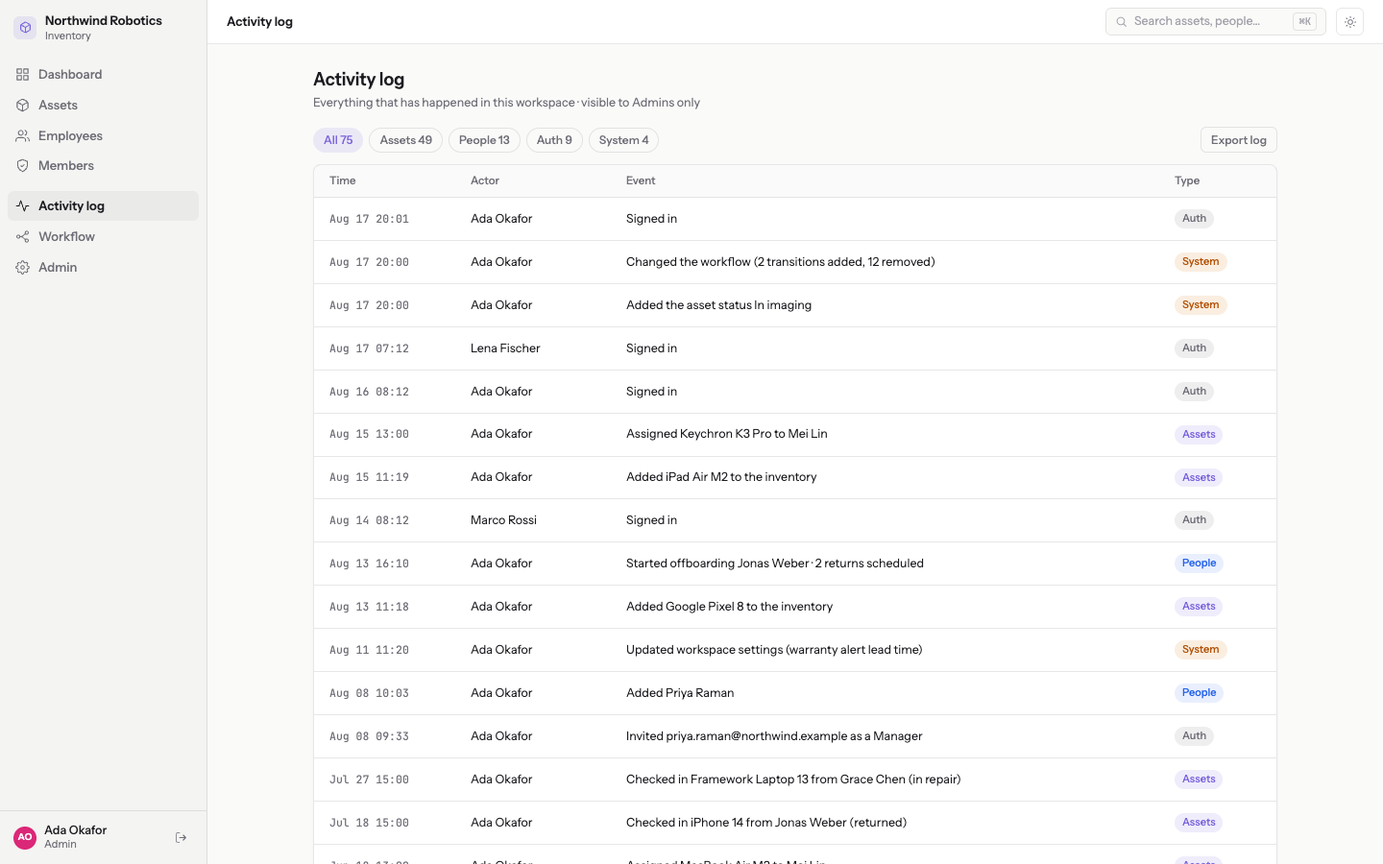
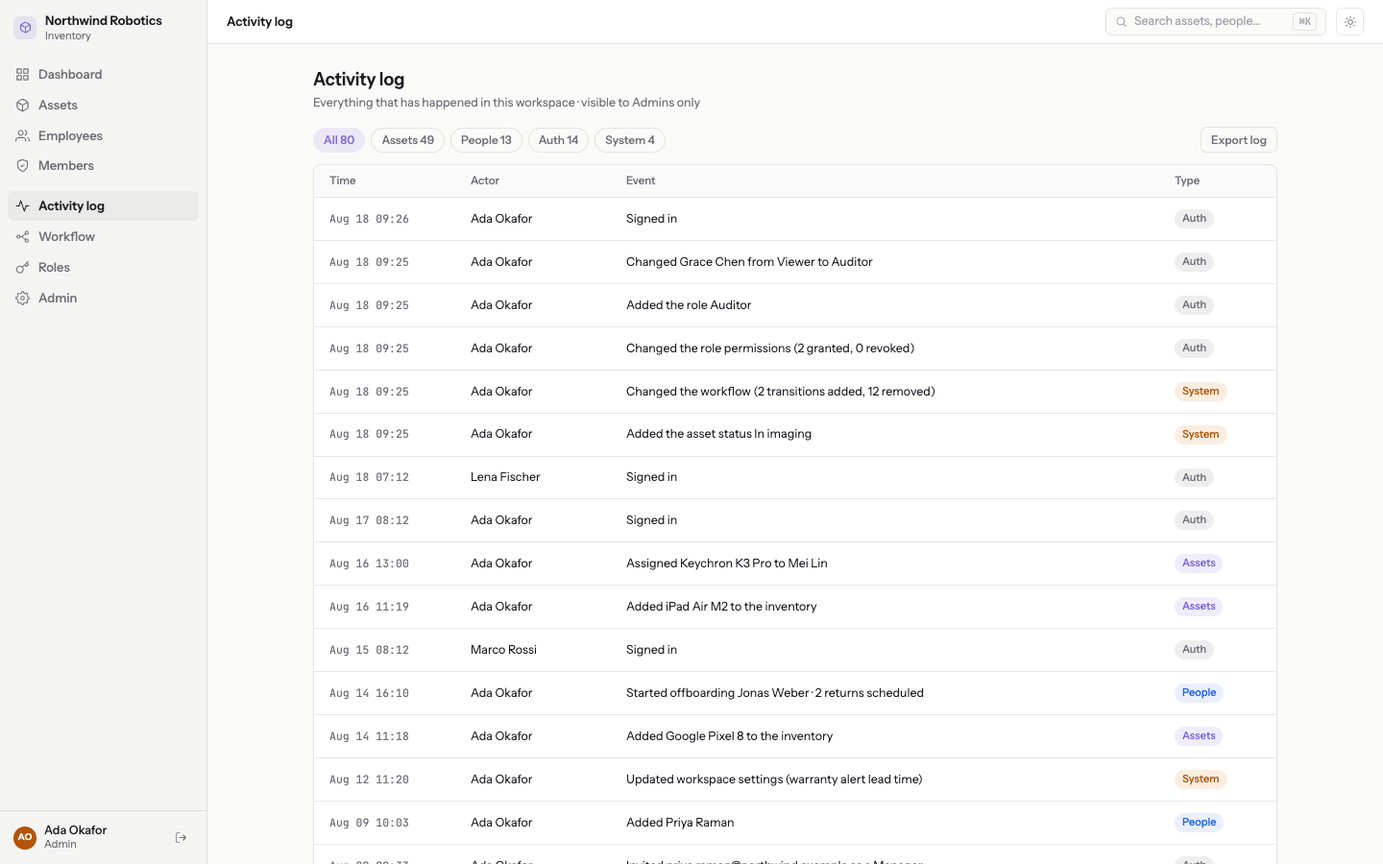
docs: show the roles page, and how to add an action to it
Two new frames from the freshly seeded demo, both 1440×900 in the light
theme like the rest of the set: the Roles page — Northwind's four roles,
their descriptions and member counts, above the permissions matrix — and
the invite modal, which draws a card per row so the role somebody
invented is on the form with the words they wrote.

The other eight are re-shot from the same session, because this branch
changed what they show: the sidebar has a Roles item now, and the
dashboard's activity widget and the log both open on the promotion the
demo seed ends with.

`add-permission-action.md` is the code-side change adopters make — an
action slug through ACTIONS, its label, its group, the seed, the route
guard, the affordance and the renderer, with the reminder that nobody
holds the new permission until an admin ticks it. The recipes that still
narrated the role enum say `can(permissions, …)` now, and the ones that
sent people to `enums.ts` for a role send them to the Roles page.

diff --git a/docs/recipes/add-permission-action.md b/docs/recipes/add-permission-action.md
@@ -1,0 +1,93 @@
+# Add a permission action
+
+Worked example: `locations.create`, the permission a new Locations section would need.
+
+> **Roles moved to the Roles page.** Which _roles_ a workspace has, and which actions each one is granted, is data — rows in `roles` and `role_permissions`, edited by an admin in the running app. This recipe is the other half: which _actions exist_ is a product decision, compiled in, and that is what you are adding.
+
+**There is no migration**, and there is nothing to grant. An action is a string in an array with three maps around it; a workspace decides who holds it by ticking a box on **Roles**. The one role that needs no ticking is Admin: it is the system role and its permission set is `ACTIONS` by definition, so an action added today is already its own — that is `resolvePermissions` in `apps/api/src/services/roles.ts`, one line, and the reason this recipe has no reconciliation step.
+
+---
+
+## 1. The action — `packages/shared/src/rbac.ts`
+
+Four edits in one file, and TypeScript will not let you stop after the first.
+
+```ts
+export const ACTIONS = [
+  // …
+  'locations.create',
+] as const;
+
+export const ACTION_LABELS: Record<Action, string> = {
+  // …
+  'locations.create': 'Create locations',
+};
+
+export const ACTION_GROUPS = [
+  // …
+  { label: 'Assets', actions: ['assets.create', …, 'locations.create'] },
+] as const satisfies readonly ActionGroup[];
+```
+
+`Action` is `(typeof ACTIONS)[number]`, so the `Record` types fail to compile until the label is there. `ACTION_GROUPS` is what the permissions matrix draws its bands from — a checkbox in no group is a permission nobody can grant. Put the action under one of the five bands the matrix already draws (Assets, Employees, People, Data, Administration); a sixth is allowed, but the test in the next step names them and their order, so add it there in the same breath. **The label is the row's whole copy**: write what a person does, not what the endpoint is called.
+
+Then the seed, if the roles a _fresh_ instance starts with should have it:
+
+```ts
+export const DEFAULT_ROLES = [
+  // …
+  { id: 'manager', /* … */ grants: ['assets.create', …, 'locations.create'] },
+];
+```
+
+Admin's `grants` array stays empty on purpose — see above. And editing `DEFAULT_ROLES` changes nothing on a workspace that already exists: `apps/api/src/db/seed.ts` only seeds the roles table when it is empty, because a workspace that has edited its roles deleted rows on purpose.
+
+## 2. The test that pins the partition — `packages/shared/src/rbac.test.ts`
+
+It asserts that `ACTION_GROUPS` partitions `ACTIONS` exactly — every action in one group, none in two — that `ACTION_LABELS` labels each one as something other than its slug, and that the bands are the five the matrix draws, in order. It will fail the moment you add the slug and pass again when the group has it; that failure _is_ the reminder, so run it before you go looking for the next file. `DEFAULT_ROLES` has its own tests there too, including one that refuses a grant this build does not declare.
+
+`packages/shared/src/audit-render.test.ts` is the other one to watch if the action writes events (step 5).
+
+## 3. The door — `apps/api/src/modules/<area>.ts`
+
+```ts
+typed.post(
+  '/api/v1/locations',
+  { schema: { body: locationCreateInput }, preHandler: requireAction('locations.create') },
+  async (request) => ({ location: createLocation(deps, request.member!, request.body) }),
+);
+```
+
+`requireAction` composes `requireAuth`, so it also carries the two-factor enrolment gate — never re-implement a guard's body, call the one below it. **A route with no action named on it is a route nothing guards**: reads are deliberately open to every authenticated member, so anything that mutates or is admin-only must name one.
+
+The permission set is resolved per request in `apps/api/src/plugins/session.ts`, which is why a grant an admin made a second ago lands on the member's very next request with no session machinery involved.
+
+## 4. The affordance — `apps/web`
+
+```tsx
+{can(permissions, 'locations.create') && <Button icon="plus" …>Add location</Button>}
+```
+
+Every gated page takes a `permissions: Action[]` prop threaded from the session in `routes.tsx`; `/auth/me` carries the set the API resolved, and `requireAction` reads that same set on the server — which is what keeps a button and the door behind it from disagreeing. Nothing in the web may name a role but `admin`.
+
+If the action gates a whole page, guard the **route** in `apps/web/src/routes.tsx` (`can(permissions, 'locations.manage') ? <LocationsPage …/> : <Navigate to="/dashboard" replace />`) and add `requires: 'locations.manage'` to the entry in `apps/web/src/components/app/nav.ts`. A hidden nav item hides the door without locking it.
+
+The command palette filters its entries by permission too — `apps/web/src/components/app/palette.ts`.
+
+## 5. The sentence, if it writes events — `packages/shared/src/audit-render.ts`
+
+Every mutation writes its audit event in the same transaction, and every audited action needs a renderer here. Look at what the sentence needs and audit _that_: a renderer can only say what its `params` carry.
+
+## What updates itself
+
+- **The permissions matrix on `/roles`** draws one row per action, from `ACTION_GROUPS` and `ACTION_LABELS`. No component change, no column, no migration.
+- **The Admin column** is ticked and disabled for the new row the moment it exists.
+- **Every existing role** starts without it, which is the safe direction. An admin ticks the boxes they mean and presses Save.
+
+## The step people forget
+
+**Nobody has the new permission except Admin.** Adding an action to `ACTIONS` widens what _can_ be granted, not what is: existing roles are rows, and rows do not grow a column. If a workspace's Managers should be able to do the new thing, an admin has to tick it on **Roles** — and if the feature ships to instances that upgrade rather than start fresh, say so in the release notes, because `DEFAULT_ROLES` will not reach them.
+
+## What this recipe is not for
+
+**A new role.** Sign in as an admin, open **Roles**, and add it there: name, colour, description, then the boxes it may tick. `packages/shared/src/rbac.ts` still holds `DEFAULT_ROLES`, but that is only the roles a **fresh** instance is seeded with plus the label fallback for audit events written before any of this existed.

diff --git a/README.md b/README.md
@@ -2,7 +2,7 @@
 
 Self-hosted, single container, SQLite. Track devices, who holds them, and the full ownership history of every one.
 
-Built to be **customized by asking Claude Code**: every area of the repo carries a `CLAUDE.md` explaining its patterns, and [`docs/recipes/`](docs/recipes/) has step-by-step checklists for the changes teams actually make — a new field, a new page, a new widget, a new email.
+Built to be **customized by asking Claude Code**: every area of the repo carries a `CLAUDE.md` explaining its patterns, and [`docs/recipes/`](docs/recipes/) has step-by-step checklists for the changes teams actually make — a new field, a new page, a new permission, a new email.
 
 MIT licensed.
 
@@ -39,7 +39,8 @@ docker compose up -d
 - **Employees** — the people who hold devices. Separate from the accounts that sign in, optionally linked to them, because most staff never need a login.
 - **Ownership history** — who had what, when, and how it came back. Held in one table that is the only truth about it; an asset's status and its open ownership record cannot disagree.
 - **Custom statuses & workflow** — the statuses an asset can be in are yours, not ours: an admin adds, renames, recolours and reorders them, and draws the moves between them as a checkbox matrix with a live diagram beside it. The API enforces the graph, so taking an edge off it stops that move being offered _and_ stops it being accepted.
-- **Members and invitations** — three roles (Admin / Manager / Viewer), invite by email or by a copyable link.
+- **Custom roles & permissions** — who may do what is yours as well: an admin invents a role, colours it, writes the line that appears under its name on the invite card, and ticks what it may do in a matrix of every action the product has. Admin is the one locked row — it holds every permission including the ones a later version adds — and nobody may edit the role they hold themselves. Permissions resolve per request, so a grant lands on that member's very next click, and the set the sidebar reads is the same one the API guard checks.
+- **Members and invitations** — the accounts that sign in, each holding one of those roles, invited by email or by a copyable link.
 - **Activity log** — every mutation, rendered as a sentence, filterable and exportable as CSV.
 - **Dashboard** — status counts that click through to a filtered list, fleet composition, recent activity, warranties running out, and what is due back.
 - **⌘K** — search assets and people or run a command, entirely from the keyboard.
@@ -62,6 +63,14 @@ _The demo workspace's own workflow. Northwind added "In imaging" for machines be
 ![The Change status modal for a laptop that is in repair, its status list open and offering only Available and Retired](media/workflow-change-status.png)
 
 _The same graph, one screen later: In repair has two edges leaving it, so those are the two moves on offer — and the only two the API would accept if you asked another way._
+
+![The Roles page: four roles with their colours, descriptions and member counts, above a matrix of every action with a checkbox per role](media/roles.png)
+
+_The demo workspace's own roles. Northwind wanted somebody in finance to read the log and pull the export without being able to touch the inventory, so it added Auditor and ticked exactly two boxes — both further down the matrix, under Data and Administration. The Admin column is ticked and locked the whole way, because its set is every action there is, by definition rather than by rows._
+
+![The Invite member modal: a radio card per role, each with the description its admin wrote, above the email field](media/roles-invite.png)
+
+_Everywhere a role is named reads the same table, so a role invented at four o'clock is on the invite form at four o'clock, with the words its admin wrote. The card selected by default is the one granting the fewest actions, not a slug the code knows._
 
 ![The activity log: filter pills counting assets, people, auth and system events, above a table of events written as sentences](media/activity-log.png)
 
@@ -163,16 +172,17 @@ Either way the API runs on `:3000` and Vite on `:5173` and proxies to it — **o
 
 ### Seeing it with data in it
 
-A fresh instance is empty and lands on `/setup`, which is the real first-run experience but leaves every screen blank — and this app is largely about history. `npm run seed:demo` gives you a fictional company: twelve people, twenty-six devices, four months of assignments, returns and audit history. It prints one login per role, so you can see what an admin, a manager and a viewer each get:
+A fresh instance is empty and lands on `/setup`, which is the real first-run experience but leaves every screen blank — and this app is largely about history. `npm run seed:demo` gives you a fictional company: twelve people, twenty-six devices, four months of assignments, returns and audit history. It prints one login per role — including the fourth one the workspace invented for itself — so you can see what each of them gets:
 
 ```
   Northwind Robotics is ready in /path/to/repo/data
 
-  26 assets · 12 employees · 19 ownership records · 74 logged events
+  26 assets · 12 employees · 19 ownership records · 79 logged events
 
   ada.okafor@northwind.example    demo-password  (admin)
   marco.rossi@northwind.example   demo-password  (manager)
   lena.fischer@northwind.example  demo-password  (viewer)
+  grace.chen@northwind.example    demo-password  (auditor)
 ```
 
 Every date is relative to the moment you run it, so warranties are always about to lapse and returns are always about to fall due — the dashboard is never a museum. It refuses to touch a workspace that already has data; add `--reset` to replace one.

diff --git a/docs/recipes/add-page.md b/docs/recipes/add-page.md
@@ -9,11 +9,11 @@ Worked example: a **Locations** section with its own nav entry, list page and de
 Inside the signed-in `<Route element={<AppShell …>}>` block:
 
 ```tsx
-<Route path="/locations" element={<LocationsPage role={member.role} />} />
-<Route path="/locations/:id" element={<LocationDetailPage role={member.role} />} />
+<Route path="/locations" element={<LocationsPage permissions={permissions} />} />
+<Route path="/locations/:id" element={<LocationDetailPage permissions={permissions} />} />
 ```
 
-`routes.tsx` holds the whole map and its guards, and picks one of three route sets from instance and session state. A page that only some roles may open goes behind `can(member.role, '…')` the way `/admin/*` does — never behind a hidden nav item alone, which hides the door without locking it.
+`routes.tsx` holds the whole map and its guards, and picks one of three route sets from instance and session state. A page not everybody may open goes behind `can(permissions, '…')` the way `/activity`, `/workflow`, `/roles` and `/admin` do — never behind a hidden nav item alone, which hides the door without locking it. `permissions` is the set `/auth/me` resolved for this request; nothing downstream knows what a role is called.
 
 ## 2. The nav entry — `apps/web/src/components/app/nav.ts`
 
@@ -21,19 +21,19 @@ Inside the signed-in `<Route element={<AppShell …>}>` block:
 { label: 'Locations', to: '/locations', icon: 'mapPin' },
 ```
 
-and add `locations: 'Locations'` to the breadcrumb map below it. `requires: '<action>'` on the entry hides it from roles that may not use it; `gapBefore: true` is the design's 10px separation, which only Admin has.
+and add `locations: 'Locations'` to the breadcrumb map below it. `requires: '<action>'` on the entry hides it from anybody whose role does not grant that action; `gapBefore: true` is the design's 10px separation, which only Admin has.
 
 If the icon does not exist yet, add its path to `components/ui/Icon.tsx` in the same Feather style at stroke 1.7. Do not add an icon library.
 
 ## 3. The page — `apps/web/src/features/locations/LocationsPage.tsx`
 
 ```tsx
-export function LocationsPage({ role }: { role: Role }) {
+export function LocationsPage({ permissions }: LocationsPageProps) {
   const locations = useLocations();
   return (
     <PageContainer maxWidth={1160}>
-      <ListToolbar title="Locations" role={role}>
-        {can(role, 'locations.create') && <Button icon="plus" …>Add location</Button>}
+      <ListToolbar title="Locations" permissions={permissions}>
+        {can(permissions, 'locations.create') && <Button icon="plus" …>Add location</Button>}
       </ListToolbar>
       {/* SearchInput, DataTable, EmptyState — see AssetsPage */}
     </PageContainer>
@@ -66,13 +66,13 @@ Writes go in `api/mutations.ts` and invalidate through `invalidateInventory` (or
 
 A module in `apps/api/src/modules/locations.ts` with thin routes, a service in `apps/api/src/services/locations.ts` holding anything transactional, and `registerLocationRoutes(app, deps)` wired into `apps/api/src/app.ts`.
 
-Guard every mutating route with `requireAction('<action>')`, and declare that action in `packages/shared/src/rbac.ts` — the same map the UI's `can()` reads, which is what keeps the button and the endpoint from disagreeing.
+Guard every mutating route with `requireAction('<action>')`, and declare that action in `packages/shared/src/rbac.ts` — the same list the UI's `can()` reads, which is what keeps the button and the endpoint from disagreeing. [`add-permission-action.md`](add-permission-action.md) is that change end to end; which _roles_ hold the action is workspace data, edited on **Roles**, so there is nothing to migrate.
 
 **Every mutation writes its audit event in the same transaction** (`writeAudit`), and every audited action needs a renderer in `packages/shared/src/audit-render.ts`. The test there asserts each one renders something other than its own slug.
 
 ## 6. Tests
 
-- `apps/api/test/locations.test.ts` — `buildTestApp()` and `app.inject`, covering the happy path, the role guard and the delete guard.
+- `apps/api/test/locations.test.ts` — `buildTestApp()` and `app.inject`, covering the happy path, the permission guard and the delete guard.
 - `apps/web/src/features/locations/locations.test.tsx` — drive the real client through `src/test/api-stub.ts`, as the other features do.
 - `apps/web/src/components/app/nav.test.ts` — the section is active on its detail page too.
 

diff --git a/docs/recipes/add-enum-value.md b/docs/recipes/add-enum-value.md
@@ -1,8 +1,8 @@
 # Add an enum value
 
-> **Asset statuses moved to Admin → Workflow.** They are rows in `asset_statuses` now, added and renamed by an admin in the running app — no code, no deploy. This recipe is for the enums that stayed in code.
+> **Asset statuses and roles moved into the app.** Statuses are rows in `asset_statuses`, edited on **Workflow**; roles are rows in `roles`, edited on **Roles** — both added and renamed by an admin in the running app, no code, no deploy. This recipe is for the enums that stayed in code, and [`add-permission-action.md`](add-permission-action.md) is for the one list roles are built out of.
 
-Worked example: an asset category `tablets`. The same steps add a role, a check-in condition, an audit type or an assignment outcome — every enum left in this app is built the same way.
+Worked example: an asset category `tablets`. The same steps add a check-in condition, an audit type or an assignment outcome — every enum left in this app is built the same way.
 
 **There is no migration.** Enum columns are `TEXT` with no `CHECK` constraint, deliberately, so adding a value is a code-only change. That decision is what makes this recipe five minutes long.
 
@@ -28,7 +28,7 @@ export const ASSET_CATEGORY_LABELS: Record<AssetCategory, string> = {
 
 Add the slug to the array and TypeScript's `Record` types make every map fail to compile until it is complete. That is the guard rail — you cannot add a value that has no label.
 
-Some enums carry a **semantic colour** map as well (roles, employee statuses, audit types). The colour must be one of `ok | acc | warn | err | info | neut`. Never a hex value: those resolve to `--{sv}` and `--{sv}-bg`, which is what makes it work in both themes.
+Some enums carry a **semantic colour** map as well (employee statuses, audit types). The colour must be one of `ok | acc | warn | err | info | neut`. Never a hex value: those resolve to `--{sv}` and `--{sv}-bg`, which is what makes it work in both themes.
 
 ## 2. Update the test that pins the vocabulary
 
@@ -58,5 +58,7 @@ A test or a CSS grid that spells out how many there are is the one thing that do
 **Existing rows keep their old value, and that is the point.** Removing a value from the array does not remove it from the database: assets still carry the slug, and the UI renders what it can rather than crashing. If you are _replacing_ a value rather than adding one, write a migration that updates the rows — the enum change alone leaves data nothing can label.
 
 ## What this recipe is not for
+
+**A new role.** Sign in as an admin, open **Roles**, and add it there: name, colour, description, and the boxes it may tick. `packages/shared/src/rbac.ts` still holds `DEFAULT_ROLES`, but that is only what a **fresh** instance is seeded with plus the label fallback for audit events written before roles became data. Adding a new _action_ a role can be granted is [`add-permission-action.md`](add-permission-action.md).
 
 **A new asset status.** Sign in as an admin, open **Workflow**, and add it there: label, colour, whether assets can be handed out of it, whether a check-in may land in it, and which moves the transition matrix allows. `packages/shared/src/enums.ts` still holds `DEFAULT_ASSET_STATUSES`, but that is only the workflow a **fresh** instance is seeded with plus the label fallback for audit events written before any of this existed — editing it changes nothing on a workspace that already exists.

diff --git a/docs/recipes/README.md b/docs/recipes/README.md
@@ -4,14 +4,15 @@ End-to-end checklists for the changes teams actually make to this app. Each one 
 
 They are written to be handed to Claude Code: open a session in the repo and say _"follow docs/recipes/add-asset-field.md to add a `mac_address` field"_. They read as instructions to a person too.
 
-| Recipe                                             | When                                                                              |
-| -------------------------------------------------- | --------------------------------------------------------------------------------- |
-| [add-asset-field.md](add-asset-field.md)           | A column every asset should have, on the form, the table, the CSV and the export. |
-| [add-enum-value.md](add-enum-value.md)             | A new category, role or any other enum value. (Statuses are edited in the app.)   |
-| [add-page.md](add-page.md)                         | A new section with its own nav entry and route.                                   |
-| [add-dashboard-widget.md](add-dashboard-widget.md) | Another card on the dashboard, toggleable per member.                             |
-| [add-email.md](add-email.md)                       | A new message, transactional or scheduled.                                        |
-| [rebrand.md](rebrand.md)                           | Your own name, colours and fonts.                                                 |
+| Recipe                                               | When                                                                                 |
+| ---------------------------------------------------- | ------------------------------------------------------------------------------------ |
+| [add-asset-field.md](add-asset-field.md)             | A column every asset should have, on the form, the table, the CSV and the export.    |
+| [add-enum-value.md](add-enum-value.md)               | A new category, condition or any other enum value. (Statuses are edited in the app.) |
+| [add-permission-action.md](add-permission-action.md) | A new thing a role may be granted. (Roles themselves are edited in the app.)         |
+| [add-page.md](add-page.md)                           | A new section with its own nav entry and route.                                      |
+| [add-dashboard-widget.md](add-dashboard-widget.md)   | Another card on the dashboard, toggleable per member.                                |
+| [add-email.md](add-email.md)                         | A new message, transactional or scheduled.                                           |
+| [rebrand.md](rebrand.md)                             | Your own name, colours and fonts.                                                    |
 
 ## Before any of them
 

diff --git a/e2e/CLAUDE.md b/e2e/CLAUDE.md
@@ -13,7 +13,8 @@ npm run e2e          # from the repo root
 - Later specs also inherit the _data_ earlier ones created: `inventory.spec.ts` adds an employee, then registers an asset to that person, then reads it back. Add to the end of a journey rather than assuming an empty instance.
 - **`zz-workspace-delete.spec.ts` empties the instance, so its `zz-` prefix is load-bearing.** Anything sorting after it would find a workspace waiting to be set up. Give new specs ordinary names and they stay safe.
 - Uploading a file is `setInputFiles` on the input's accessible name (`getByLabel('CSV file')`), never a click on the dropzone: the visible zone opens a native picker Playwright cannot drive.
-- A second role needs a second browser context: `members.spec.ts` invites a viewer and accepts the invitation in `browser.newContext()`, which is also the only honest way to test read-only access — the invite endpoint is the only way to create a non-admin.
+- A second role needs a second browser context: `members.spec.ts` invites a viewer and accepts the invitation in `browser.newContext()`, which is also the only honest way to test read-only access — the invite endpoint is the only way to create a non-admin. `roles.spec.ts` then promotes that same person and signs her in again, because one member carried across specs is what makes "her permissions changed" a thing the suite can observe.
+- **A permission is only proven when the API agrees.** A missing button is a hidden door; `page.request.post(…)` from the signed-in context is the lock. Playwright's request context shares the page's cookies and sends no `Origin`, which the origin guard passes deliberately — so the guard under test is the RBAC one. Send a body the schema accepts: validation runs before the route's `preHandler`, so an empty one answers 422 and proves nothing.
 - Browser contexts are per-test, so every test starts signed out even though the server state carries over.
 - `NODE_ENV=production` is set deliberately: it activates the origin guard, so the suite proves the CSRF stance works with real browser requests.
 

diff --git a/docs/development.md b/docs/development.md
@@ -59,14 +59,15 @@ It also means every screen is empty, and this app is largely about history — w
 ```
   Northwind Robotics is ready in /path/to/repo/data
 
-  26 assets · 12 employees · 19 ownership records · 72 logged events
+  26 assets · 12 employees · 19 ownership records · 79 logged events
 
   ada.okafor@northwind.example    demo-password  (admin)
   marco.rossi@northwind.example   demo-password  (manager)
   lena.fischer@northwind.example  demo-password  (viewer)
+  grace.chen@northwind.example    demo-password  (auditor)
 ```
 
-Sign in as any of the three to see what that role can do — the viewer has no mutation affordances anywhere, the manager has no Admin section.
+Sign in as any of the four to see what that role can do — the viewer has no mutation affordances anywhere, the manager has no Admin section, and Auditor is the role the demo workspace invented for itself on the Roles page: two ticks, so the activity log and the export open and nothing else does.
 
 Every date is relative to the moment you ran it, so warranties are always about to lapse and returns are always about to fall due. It refuses to touch a workspace that already has data; add `-- --reset` (native) or `--reset` (Docker) to replace one.
 
